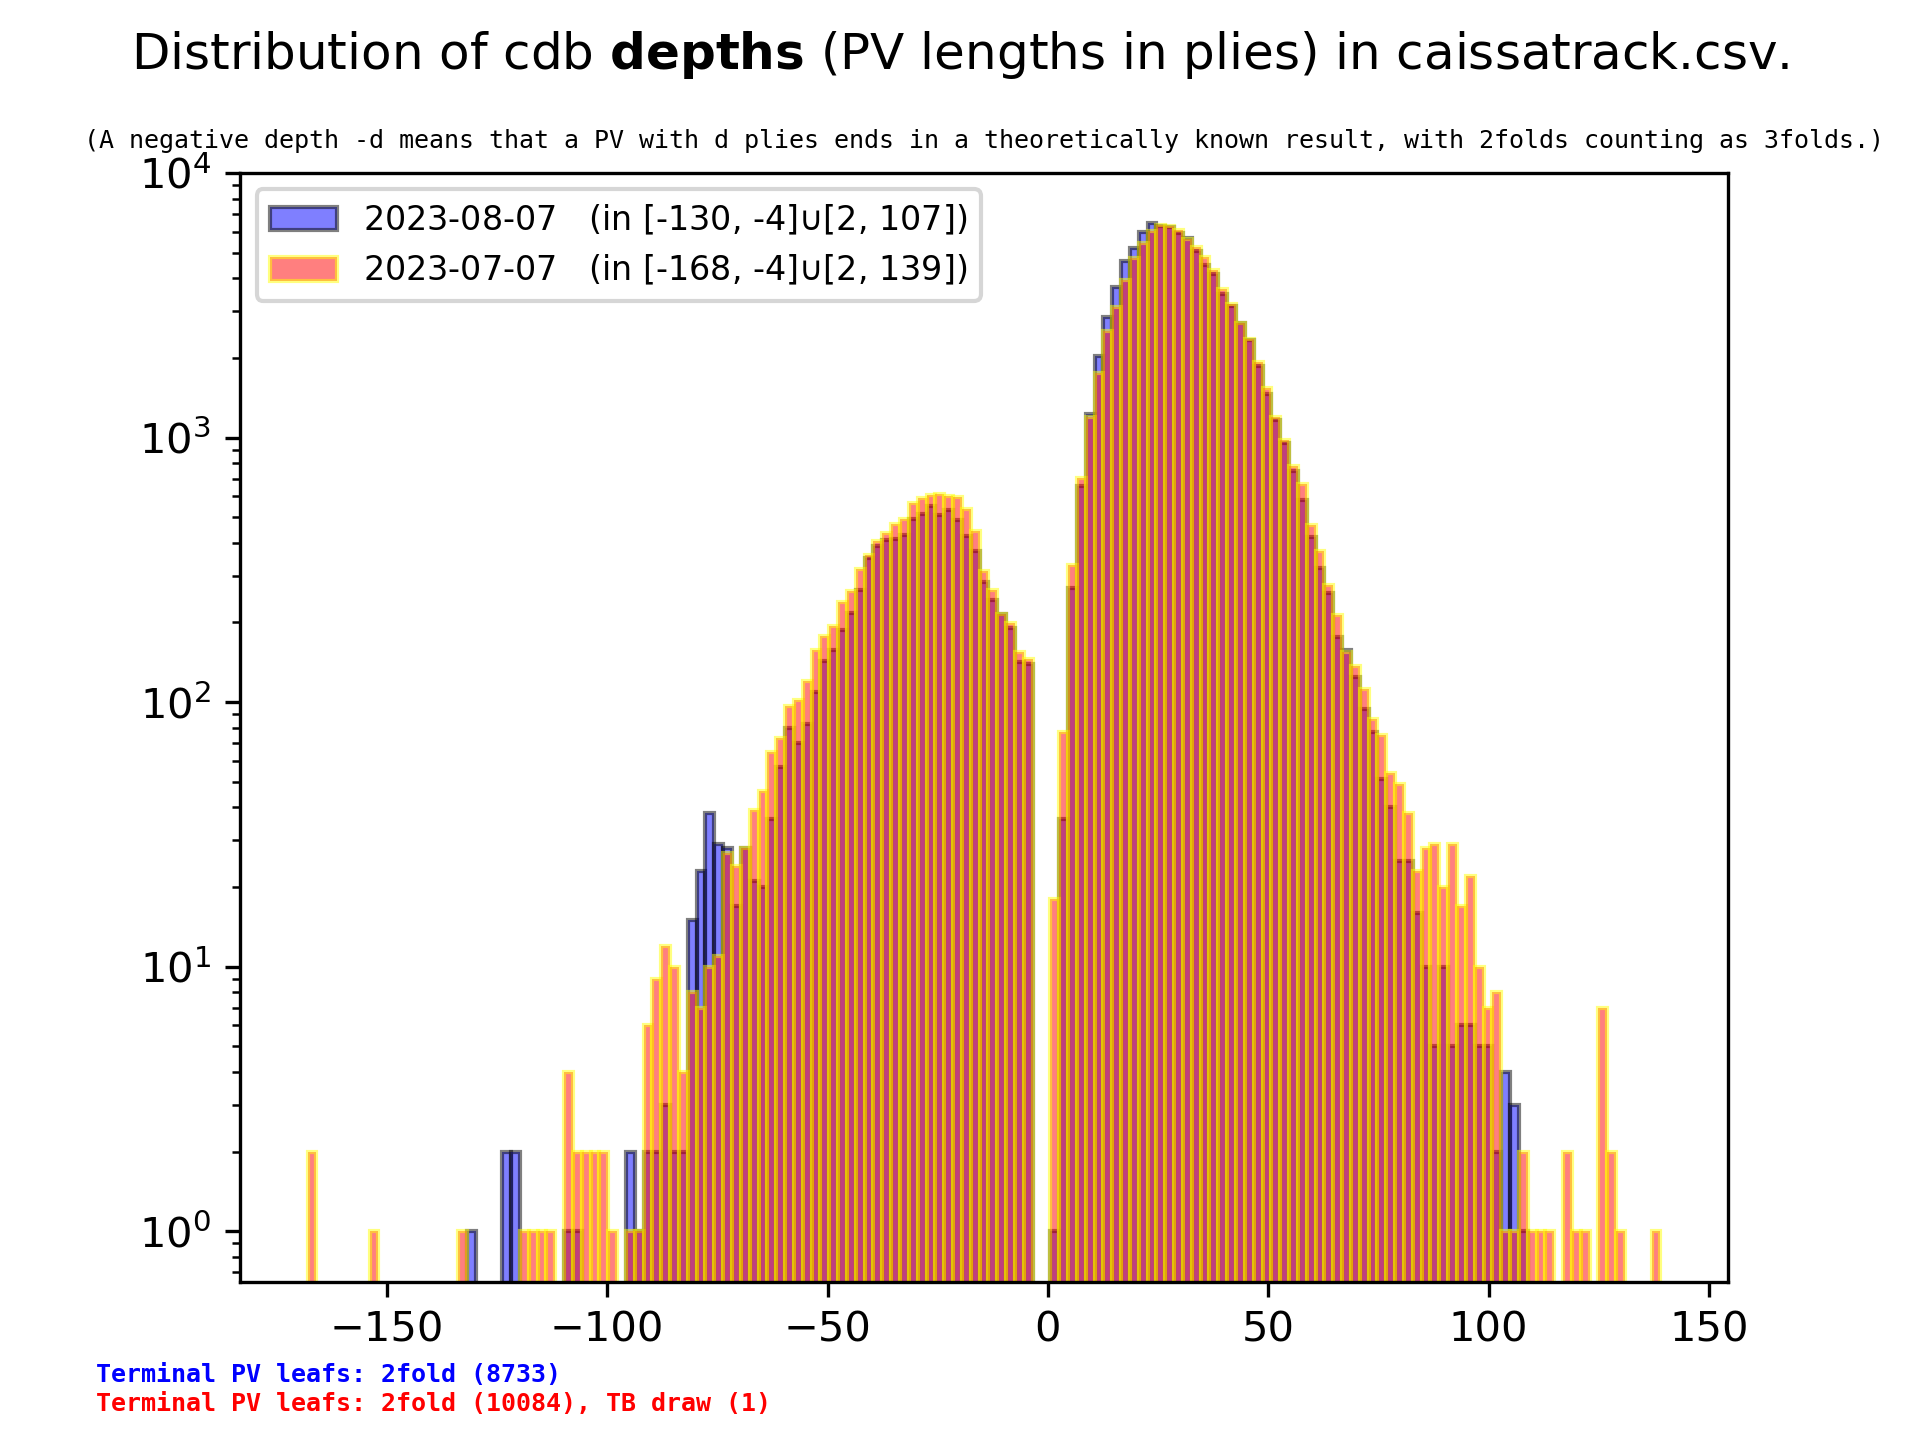
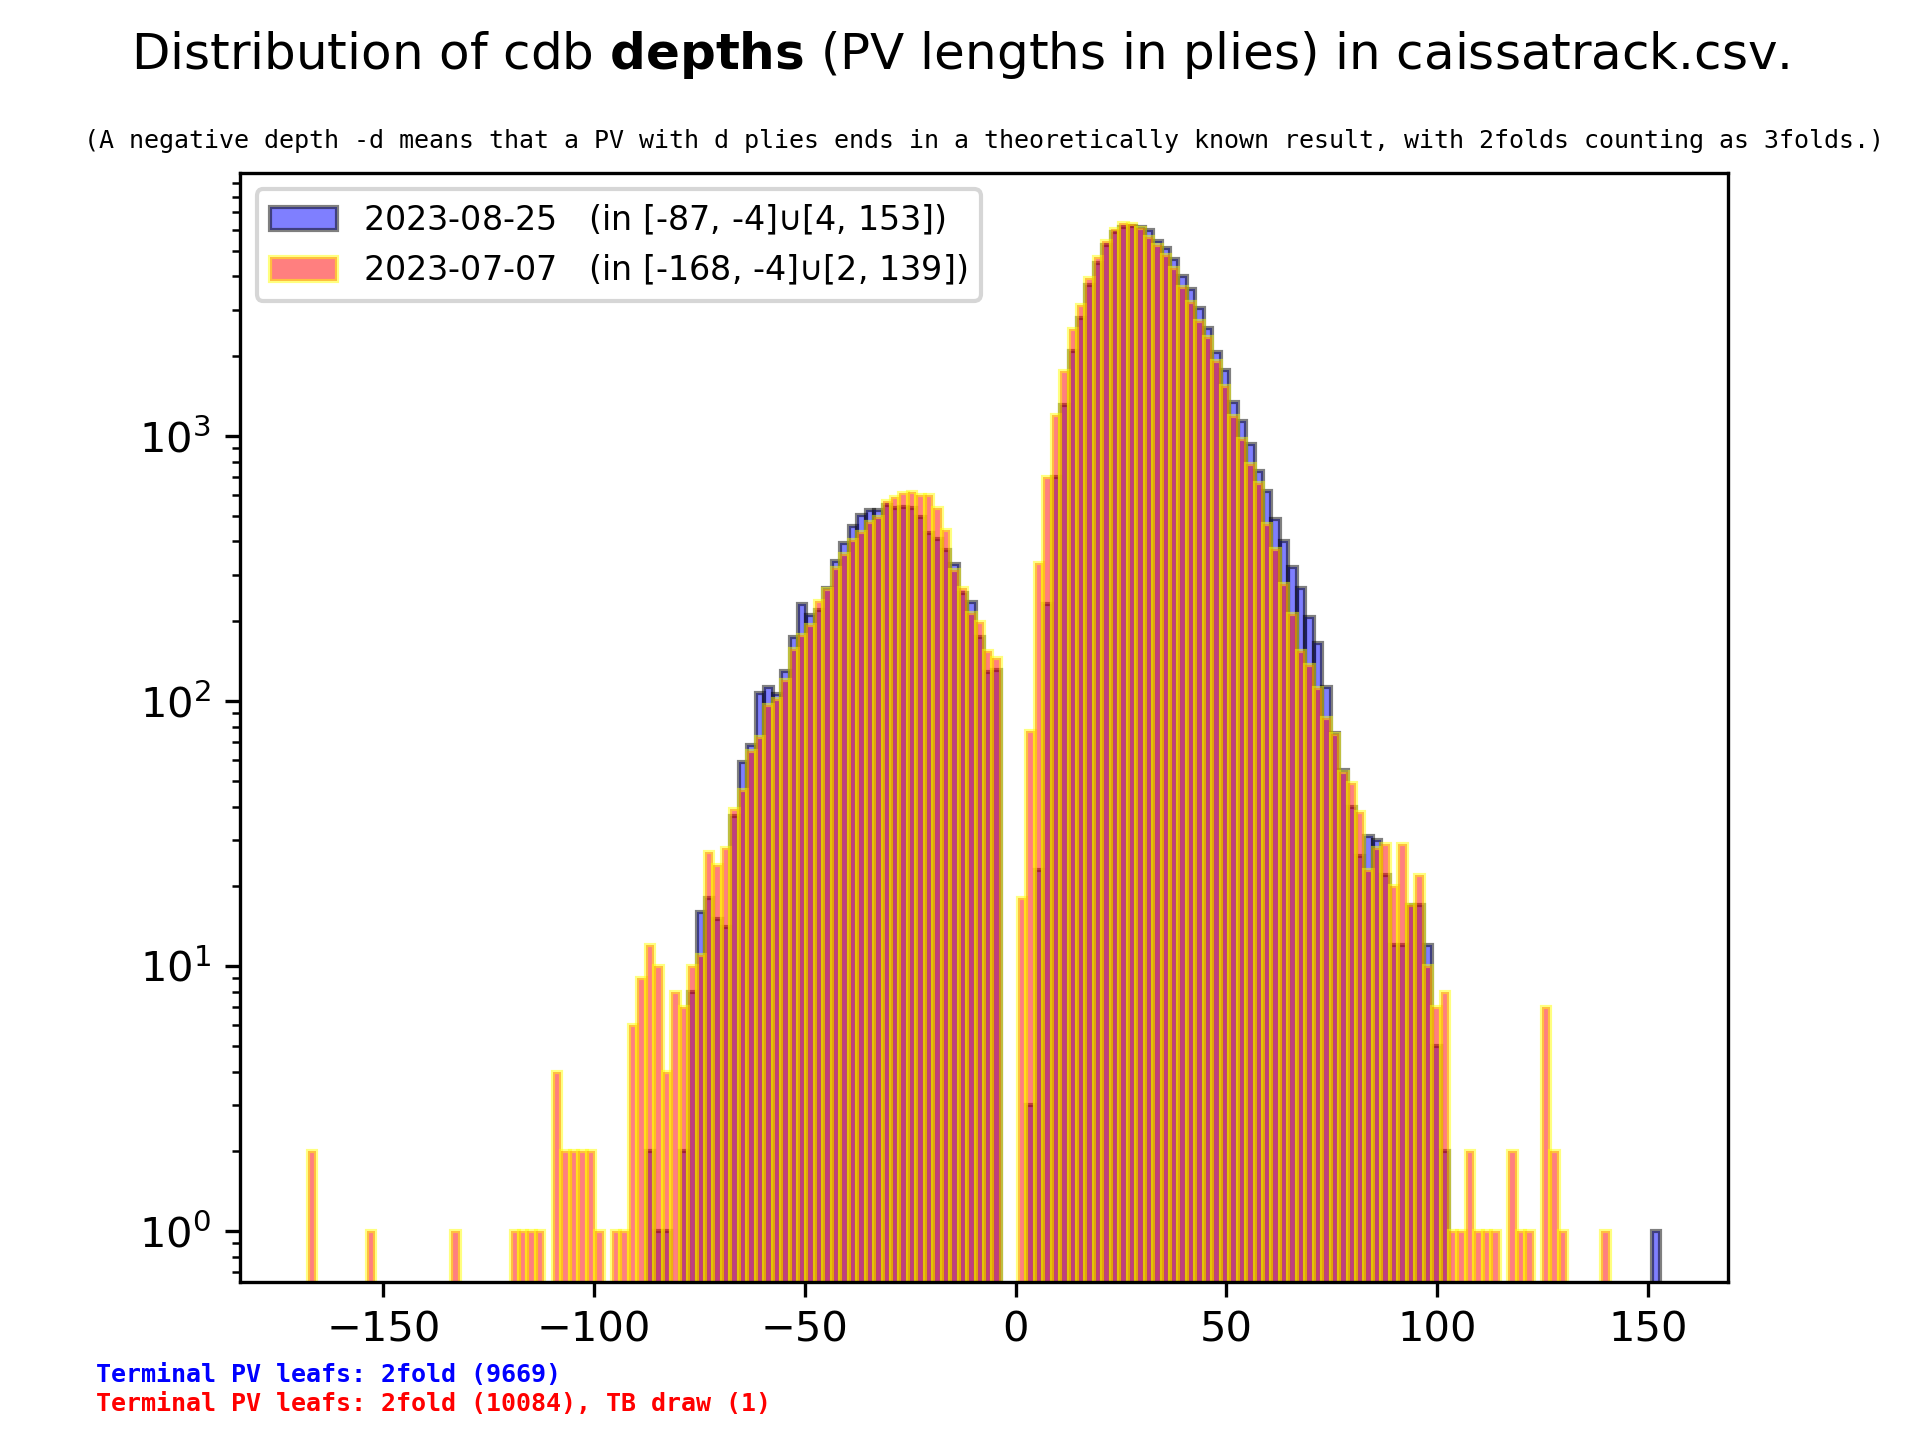
provide time series of progress indicators (#13)

diff --git a/plotdata.py b/plotdata.py
@@ -4,8 +4,47 @@ import matplotlib.dates as mdates
 from datetime import datetime
 from matplotlib.ticker import MaxNLocator
 
+NoP = 10**5  # total number of positions
+evalIndicatorStr, depthIndicatorStr = "", ""
 
-class matedata:
+
+def eval_indicator(d):
+    global evalIndicatorStr
+    evalIndicatorStr = (
+        r"$\frac{1}{N} \sum_i\ \left(\min\{\frac{|e_i|}{100},2\} - 1\right)^2$"
+    )
+    e = count = 0
+    for k, v in d.items():
+        k = min(abs(k), 200)
+        e += v * (k / 100 - 1) ** 2 / NoP
+        count += v
+    assert count == NoP, "Counting error"
+    return e
+
+
+# def depth_indicator(d):  # see depth_indicator_formula
+#    global depthIndicatorStr
+#    depthIndicatorStr = r"$\left(\prod_i\ d_i\right)^{\frac{1}{N}}$"
+#    p, count = 1, 0
+#    for k, v in d.items():
+#        k = (-k % 10000) if k < 0 else k
+#        p *= k ** (v / NoP)
+#        count += v
+#    assert count == NoP, "Counting error"
+#    return p
+
+
+def depth_indicator(d):
+    global depthIndicatorStr
+    depthIndicatorStr = r"$\sum_i\ \frac{1}{d_i}$"
+    s = 0
+    for k, v in d.items():
+        if k > 0:
+            s += v / k
+    return s
+
+
+class caissadata:
     def __init__(self, prefix):
         self.prefix = prefix
         self.date = []  # datetime entries
@@ -19,18 +58,21 @@ class matedata:
                 if line:
                     pos1 = line.find(",{")
                     pos2 = line.find("},{")
-                    dateStr, _, _ = line.partition("T")
+                    dateStr, _, _ = line.partition(",")
                     dict1Str = line[pos1 + 1 : pos2 + 1].replace(";", ",")
                     dict2Str = line[pos2 + 2 :].replace(";", ",")
                     self.date.append(dateStr)
                     self.evals.append(ast.literal_eval(dict1Str))
                     self.depths.append(ast.literal_eval(dict2Str))
 
-    def create_graph(self, cutOff=125, logplot=False, pv=False, negplot=False):
+    def create_distribution_graph(
+        self, cutOff=125, logplot=False, pv=False, negplot=False
+    ):
         color, edgecolor, label = ["red", "blue"], ["yellow", "black"], [None, None]
         dictList = [None, None]  # list for the two dicts to plot
         rangeMin, rangeMax = None, None
         for Idx in [0, -1]:
+            dateStr, _, _ = self.date[Idx].partition("T")
             if pv:
                 dictList[Idx] = self.depths[Idx].copy()
                 # negative PV lengths mean PVs that end in a terminal draw
@@ -47,16 +89,15 @@ class matedata:
                     negmax = max([k for k in dictList[Idx].keys() if k < 0])
                     posmin = min([k for k in dictList[Idx].keys() if k > 0])
                     cup = r"$\cup$"
-                    label[Idx] = (
-                        str(self.date[Idx])
-                        + f"   (in [{mi}, {negmax}]{cup}[{posmin}, {ma}])"
-                    )
+                    label[
+                        Idx
+                    ] = f"{dateStr}   (in [{mi}, {negmax}]{cup}[{posmin}, {ma}])"
                 else:
-                    label[Idx] = str(self.date[Idx]) + f"   (in [{mi}, {ma}])"
+                    label[Idx] = f"{dateStr}   (in [{mi}, {ma}])"
             else:
-                dictList[Idx] = self.evals[Idx]
+                dictList[Idx] = self.evals[Idx].copy()
                 mi, ma = min(dictList[Idx].keys()), max(dictList[Idx].keys())
-                label[Idx] = str(self.date[Idx]) + f"   (in [{mi}, {ma}])"
+                label[Idx] = f"{dateStr}   (in [{mi}, {ma}])"
                 for key in [-cutOff, cutOff]:
                     if key not in dictList[Idx]:
                         dictList[Idx][key] = 0
@@ -136,6 +177,95 @@ class matedata:
             ax.set_yscale("log")
         plt.savefig(self.prefix + ("pv" if pv else "") + ".png", dpi=300)
 
+    def create_timeseries_graph(self, plotStart=0):
+        dateData = [datetime.fromisoformat(d) for d in self.date[plotStart:]]
+        evalsData, depthsData = [], []
+
+        for d in self.evals[plotStart:]:
+            evalsData.append(eval_indicator(d))
+        for d in self.depths[plotStart:]:
+            depthsData.append(depth_indicator(d))
+
+        fig, ax = plt.subplots()
+        yColor, dateColor = "black", "black"
+        evalColor, depthColor = "blue", "firebrick"
+        ax2 = ax.twinx()
+        evalDotSize, evalLineWidth, evalAlpha = 15, 1, 0.75
+        depthDotSize, depthLineWidth, depthAlpha = 15, 1, 0.75
+        ax.scatter(
+            dateData,
+            evalsData,
+            color=evalColor,
+            s=evalDotSize,
+            alpha=evalAlpha,
+        )
+        ax2.scatter(
+            dateData,
+            depthsData,
+            color=depthColor,
+            s=depthDotSize,
+            alpha=depthAlpha,
+        )
+        ax.plot(
+            dateData,
+            evalsData,
+            color=evalColor,
+            linewidth=evalLineWidth,
+            alpha=evalAlpha,
+        )
+        ax2.plot(
+            dateData,
+            depthsData,
+            color=depthColor,
+            linewidth=evalLineWidth,
+            alpha=depthAlpha,
+        )
+        ax.tick_params(axis="y", labelcolor=evalColor)
+        ax2.tick_params(axis="y", labelcolor=depthColor)
+        ax.xaxis.set_major_formatter(mdates.DateFormatter("%Y-%m-%d"))
+        plt.setp(
+            ax.get_xticklabels(),
+            rotation=45,
+            ha="right",
+            rotation_mode="anchor",
+            fontsize=6,
+        )
+        ax.grid(alpha=0.4, linewidth=0.5)
+        fig.suptitle(f"     Progress indicators from {self.prefix}.csv.")
+        plt.figtext(0.02, 0.91, evalIndicatorStr, fontsize=9, color=evalColor)
+        plt.figtext(0.91, 0.91, depthIndicatorStr, fontsize=9, color=depthColor)
+        pair = r"$(e_i, d_i)$"
+        infty = r"$d_i=\infty$"
+        noStr = str(NoP)
+        if noStr.endswith("0" * 9):
+            noStr = noStr[:-9] + "G"  #  :)
+        elif noStr.endswith("0" * 6):
+            noStr = noStr[:-6] + "M"
+        elif noStr.endswith("0" * 3):
+            noStr = noStr[:-3] + "K"
+        ax.set_title(
+            f"     Based on {noStr} (eval, depth) data points {pair}, {infty} for terminal PVs.",
+            fontsize=6,
+            family="monospace",
+        )
+        # show start of stable PV usage
+        stableDate, stableColor = datetime.fromisoformat("2023-08-24"), "green"
+        ax.axvline(x=stableDate, color=stableColor, linestyle="--", linewidth="1")
+        yPos = min(evalsData) - 0.06 * (max(evalsData) - min(evalsData))
+        ax.text(
+            stableDate,
+            yPos,
+            "stable PV",
+            color=stableColor,
+            ha="center",
+            va="top",
+            rotation="vertical",
+            fontsize=6,
+            family="monospace",
+            weight="bold",
+        )
+        plt.savefig(self.prefix + "time.png", dpi=300)
+
 
 if __name__ == "__main__":
     parser = argparse.ArgumentParser(
@@ -165,9 +295,18 @@ if __name__ == "__main__":
         action="store_true",
         help="Plot PV lines with negative depth separately.",
     )
+    parser.add_argument(
+        "--onlyTime",
+        action="store_true",
+        help="Create only time evolution graphs.",
+    )
     args = parser.parse_args()
 
     prefix, _, _ = args.filename.partition(".")
-    data = matedata(prefix)
-    data.create_graph(cutOff=args.cutOff, logplot=args.logplot)
-    data.create_graph(pv=True, logplot=args.logplot >= 2, negplot=args.negplot)
+    data = caissadata(prefix)
+    if not args.onlyTime:
+        data.create_distribution_graph(cutOff=args.cutOff, logplot=args.logplot)
+        data.create_distribution_graph(
+            pv=True, logplot=args.logplot >= 2, negplot=args.negplot
+        )
+    data.create_timeseries_graph()

diff --git a/Readme.md b/Readme.md
@@ -32,6 +32,26 @@ are written to [`caissa_daily_edgy.epd`](caissa_daily_edgy.epd).
 
 ---
 
+## Progress
+
+The following graph attempts to measure the progress cdb makes in exploring
+and evaluating the positions in `caissa_sorted_100000.epd`. It plots the
+evolutions in time of the two (daily) indicators
+$`E = \frac{1}{N} \sum_i \left(\min\{\frac{|e_i|}{100},2\} - 1\right)^2`$
+and
+$D=\sum_i \frac{1}{d_i}$,
+where $(e_i, d_i)$ are the evaluation and depth values for the 100K positions,
+with the convention that $d_i = \infty$ if the position's PV ends in a terminal
+leaf (2-fold repetition, 50 moves rule, stalemate, checkmate or 7men EGTB).
+$E$ measures how certain cdb's evaluations are, while $D$ simply sums the
+inverses of the lengths of the non-resolved PVs. Note that as cdb (slowly) 
+approaches the 32men EGTB, $E$ should converge to 1, while $D$
+should converge to 0.
+
+<p align="center"> <img src="caissatracktime.png?raw=true"> </p>
+
+---
+
 ## Get involved
 
 If you want to help improve the coverage of these positions on cdb, you could
